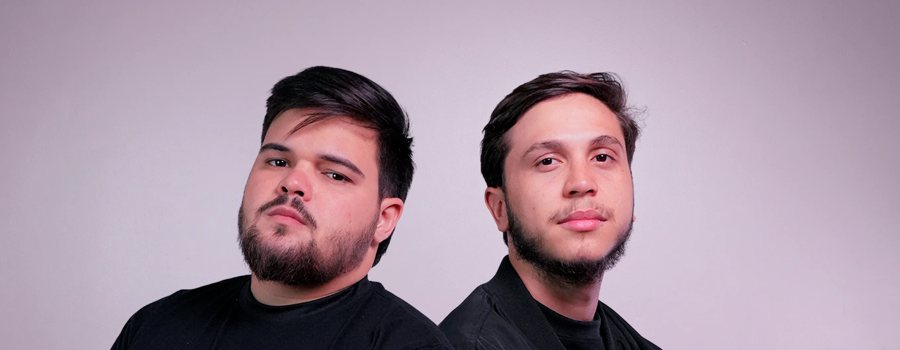
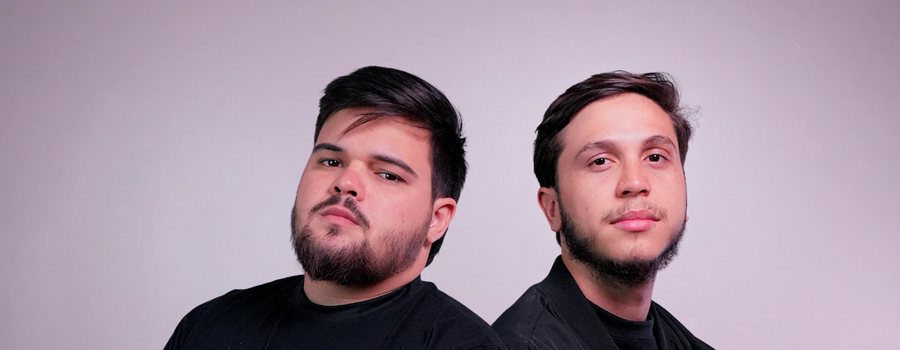
Site UAU: foto dos sócios centralizada na cápsula e sem faixa preta
O recuo da imagem dentro da cápsula usava margem em %, que é calculada
pela largura e empurrava a foto para cima e para a esquerda.

Claude-Session: https://claude.ai/code/session_01GjEhT5T8qckxjphJdVS7Mo

Changed region(s): [[0.1244, 0.1714, 0.8089, 1.0], [0.5289, 0.9714, 0.56, 1.0]]

diff --git a/site-uau/assets/site.css b/site-uau/assets/site.css
@@ -109,7 +109,7 @@ footer .logo img{height:44px}
 .hx-line2{gap:.22em}
 .hx-title .rotator span{font-weight:800;justify-self:center}
 .pill{display:inline-block;height:.74em;width:1.9em;border-radius:999px;overflow:hidden;flex:none;position:relative;box-shadow:0 0 0 1px rgba(255,255,255,.12),0 20px 50px rgba(0,0,0,.45);animation:pill-open 1.2s .2s cubic-bezier(.7,0,.2,1) both}
-.pill img{width:115%;height:115%;margin:-7.5%;object-fit:cover;object-position:center 40%;display:block;will-change:transform}
+.pill img{position:absolute;left:-4%;top:-6%;width:108%;height:112%;object-fit:cover;object-position:center 40%;display:block;will-change:transform}
 @keyframes pill-open{from{width:0;opacity:0}}
 .hx-bottom{display:flex;flex-direction:column;align-items:center;text-align:center;gap:24px}
 .hx-copy{display:flex;flex-direction:column;align-items:center;gap:18px;max-width:820px}
